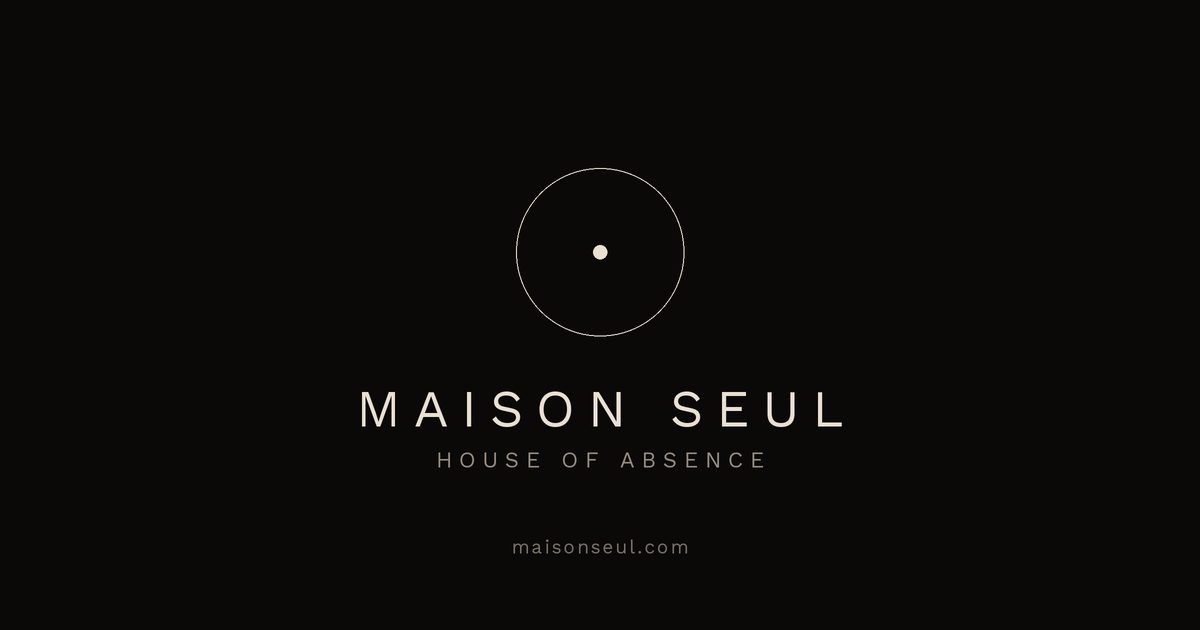
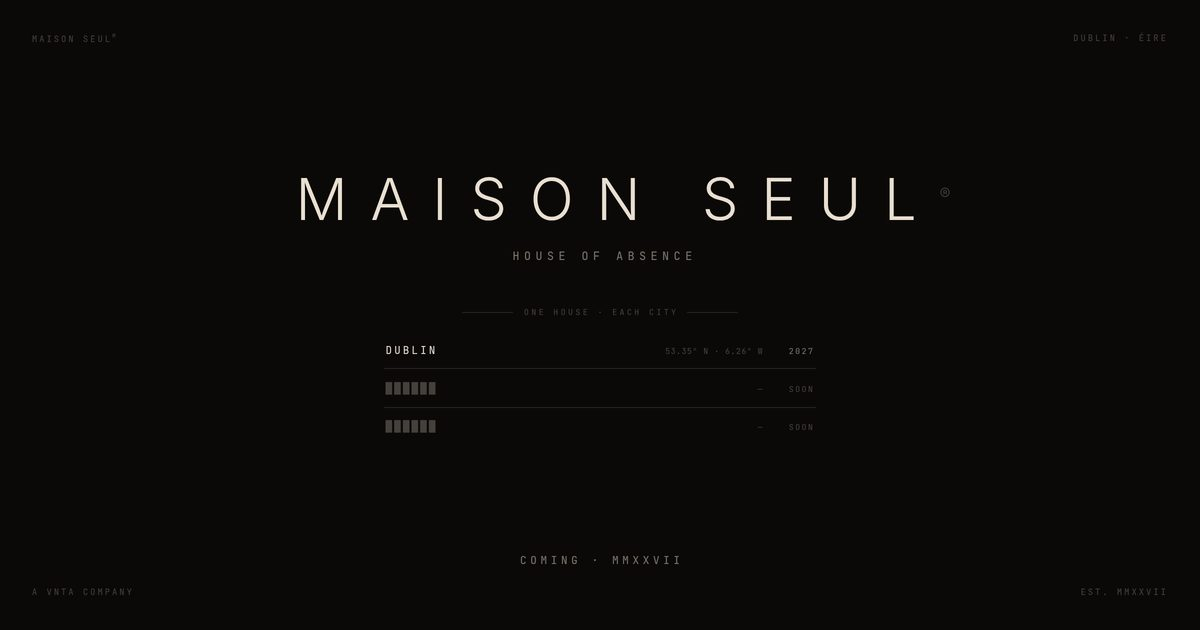
Back to a black ground, and real screengrabs of the live sites
Ground returns to #000 with #1c1c1e for the raised rows, as it was before
the lift to Apple's elevated greys. Browser theme colour and the manifest
splash follow.

The project cards were the repositories' stored og images, which were out
of date. Each is now a screenshot of that site's own current build: clone,
npm ci, npm run build, serve, capture at a 1200x630 viewport at 2x. Vendr
and Maison Seul are SvelteKit, SpaceXplorer is Jekyll. Vendr's consent
notice is hidden for the capture, being chrome rather than design.

Éirvox is the exception and is still its og image. That app will not boot
without Supabase credentials and its bootstrap needs outbound network,
neither of which is available here, so it cannot be rendered the same way.
Flagged in the README as the one card to replace.

Alt text and the card meta lines now describe what the grabs actually
show, including that Vendr is pre-launch and Maison Seul unlaunched.

Verified: 202 text nodes at zero WCAG AA failures on the black ground, no
broken links, no horizontal scroll at 375px.

Claude-Session: https://claude.ai/code/session_019WrpS6jkpRWjfV3syLupkp

diff --git a/assets/css/main.scss b/assets/css/main.scss
@@ -11,18 +11,17 @@
 // colour below clears 4.5:1 on its own background.
 
 // Palette ------------------------------------------------------------------
-// Lifted off pure black. Apple's elevated dark greys, not #000: the ground has
-// weight and the raised surface reads as raised.
-$bg:        #1c1c1e;   // page
-$surface:   #2c2c2e;   // grouped rows
-$sep:       #3a3a3c;   // separators inside a group
-$line:      #303032;   // hairlines on the page ground
-$fg:        #f5f5f7;   // primary text        15.6:1 on $bg
-$fg2:       #c7c7cc;   // body prose          10.2:1 on $bg
-$fg3:       #a1a1a8;   // meta, labels, nav    6.4:1 on $bg
-$fg4:       #98989f;   // footer text          5.2:1 on $bg
-$icon:      #7c7c81;   // chevrons only        3.3:1 on $surface, non text UI
-$accent:    #5aaaff;   // links                7.3:1 on $bg, 6.3:1 on $surface
+// Black ground. The raised surface carries the grouped rows.
+$bg:        #000;      // page
+$surface:   #1c1c1e;   // grouped rows
+$sep:       #2c2c2e;   // separators inside a group
+$line:      #232325;   // hairlines on the page ground
+$fg:        #f5f5f7;   // primary text        19.9:1 on $bg
+$fg2:       #c7c7cc;   // body prose          13.1:1 on $bg
+$fg3:       #98989f;   // meta, labels, nav    7.3:1 on $bg
+$fg4:       #8e8e93;   // footer text          6.4:1 on $bg
+$icon:      #6e6e73;   // chevrons only        3.3:1 on $surface, non text UI
+$accent:    #4da3ff;   // links               10.1:1 on $bg, 8.1:1 on $surface
 
 $font: -apple-system, BlinkMacSystemFont, "Segoe UI", Roboto, Helvetica, Arial,
        sans-serif;
@@ -112,7 +111,7 @@ main { padding-bottom: 5rem; }
   position: sticky;
   top: 0;
   z-index: 5;
-  background: rgba(28, 28, 30, 0.82);
+  background: rgba(0, 0, 0, 0.82);
   backdrop-filter: saturate(150%) blur(16px);
   -webkit-backdrop-filter: saturate(150%) blur(16px);
   border-bottom: 1px solid $line;
@@ -285,7 +284,7 @@ hr {
 a {
   color: $fg;
   text-decoration: underline;
-  text-decoration-color: rgba(90, 170, 255, 0.55);
+  text-decoration-color: rgba(77, 163, 255, 0.55);
   text-decoration-thickness: 1px;
   text-underline-offset: 0.25em;
 

diff --git a/README.md b/README.md
@@ -77,25 +77,30 @@ WCAG AA. CI does not check that, so if you change the palette, check it.
 `cv-reference.md` backs every claim on the site. It is excluded from the build.
 If something is not in that file, it does not belong on a page.
 
-## Where the brand assets came from
+## Where the project images came from
 
-The project card images and the small row marks are each venture's own
-artwork, pulled from their repositories rather than recreated:
+Each card is a screenshot of that site's own current build, taken by cloning
+the repository, building it and capturing the rendered page at 1200x630. Not
+the repositories' stored `og` images, which were out of date.
 
-| Asset | Source |
+| Card | Built from |
 |:--|:--|
-| `img/projects/vendr.jpg` | `Vantaneant-International-Ltd/vendr` `static/og.png` |
-| `img/projects/eirvox.jpg` | `Vantaneant-International-Ltd/eirvox` `public/og-image.png` |
-| `img/projects/spacexplorer.jpg` | `renatogusani/SpaceXplorer` `images/og-card.png` |
-| `img/marks/*.png` | each repo's `favicon.svg`, plus Éirvox `public/brand/symbol.png` |
+| `img/projects/vendr.jpg` | `Vantaneant-International-Ltd/vendr`, SvelteKit |
+| `img/projects/maisonseul.jpg` | `Vantaneant-International-Ltd/maisonseul`, SvelteKit |
+| `img/projects/spacexplorer.jpg` | `renatogusani/SpaceXplorer`, Jekyll |
 
-`img/projects/maisonseul.jpg` is the exception. That repo ships no preview
-card, so it is composed here from Maison Seul's own wordmark, descriptor
-("house of absence"), mark and palette (`#0b0907` on `#e9e0d2`), all read out
-of `Vantaneant-International-Ltd/maisonseul`. Replace it if a real card
-appears upstream.
+Vendr's consent notice is hidden for the capture. It is chrome, not design.
 
-All four are 1200x630, served as JPEG at 2x for a card about 600px wide.
+**`img/projects/eirvox.jpg` is the exception and is still the repository's
+`public/og-image.png`.** That app will not boot without Supabase credentials
+and its bootstrap also needs outbound network, so it cannot be rendered the
+same way. Replace it with a real screenshot of eirvox.ie.
+
+The small row marks in `img/marks/` are each repository's `favicon.svg`, plus
+Éirvox's `public/brand/symbol.png`.
+
+To refresh a card: clone the repo, `npm ci && npm run build`, serve the output,
+and screenshot at a 1200x630 viewport at 2x.
 
 ## SEO
 

diff --git a/projects.md b/projects.md
@@ -20,9 +20,9 @@ redirect_from:
   - /projects/statistical_analyses/
 ventures:
   - name: Vendr
-    meta: "vendr.ie · Premium managed vending"
+    meta: "vendr.ie · Premium managed vending, pre-launch"
     image: /assets/img/projects/vendr.jpg
-    alt: "The Vendr wordmark in white on black, above the line: premium vending, Ireland, Spring 2026."
+    alt: "The Vendr site: the wordmark in white on black, an email field, and the line: one message when we open, no noise. Marked pre-launch, Spring 2026."
     url: https://vendr.ie
   - name: Éirvox
     meta: "eirvox.ie · Carbon steering wheels and curated goods"
@@ -30,14 +30,14 @@ ventures:
     alt: "The ÉIRVOX wordmark letterspaced in off white on black, above the line: carbon steering wheels, Dublin, Ireland."
     url: https://eirvox.ie
   - name: Maison Seul
-    meta: "maisonseul.com · House of absence"
+    meta: "maisonseul.com · House of absence, unlaunched"
     image: /assets/img/projects/maisonseul.jpg
-    alt: "The Maison Seul mark, a thin circle around a single dot, above the wordmark and the line: house of absence."
+    alt: "The Maison Seul site: the wordmark letterspaced in off white on near black, the line house of absence, Dublin listed with two redacted cities, and Coming MMXXVII."
     url: https://maisonseul.com
   - name: SpaceXplorer
     meta: "spacexplorer.info · Final year project, 2023"
     image: /assets/img/projects/spacexplorer.jpg
-    alt: "The SpaceXplorer site, headed: spaceflight went quiet for thirty years, then 2021 broke the space race record. Below it four figures: 4,630 launch attempts, 157 launches in 2021, 89.9 percent mission success, 44.5 percent Soviet or Russian."
+    alt: "The SpaceXplorer site, headed: spaceflight went quiet for thirty years, then 2021 broke the space race record, above a summary of every orbital launch attempt from 1957 to 2022."
     url: https://spacexplorer.info
 ---
 
